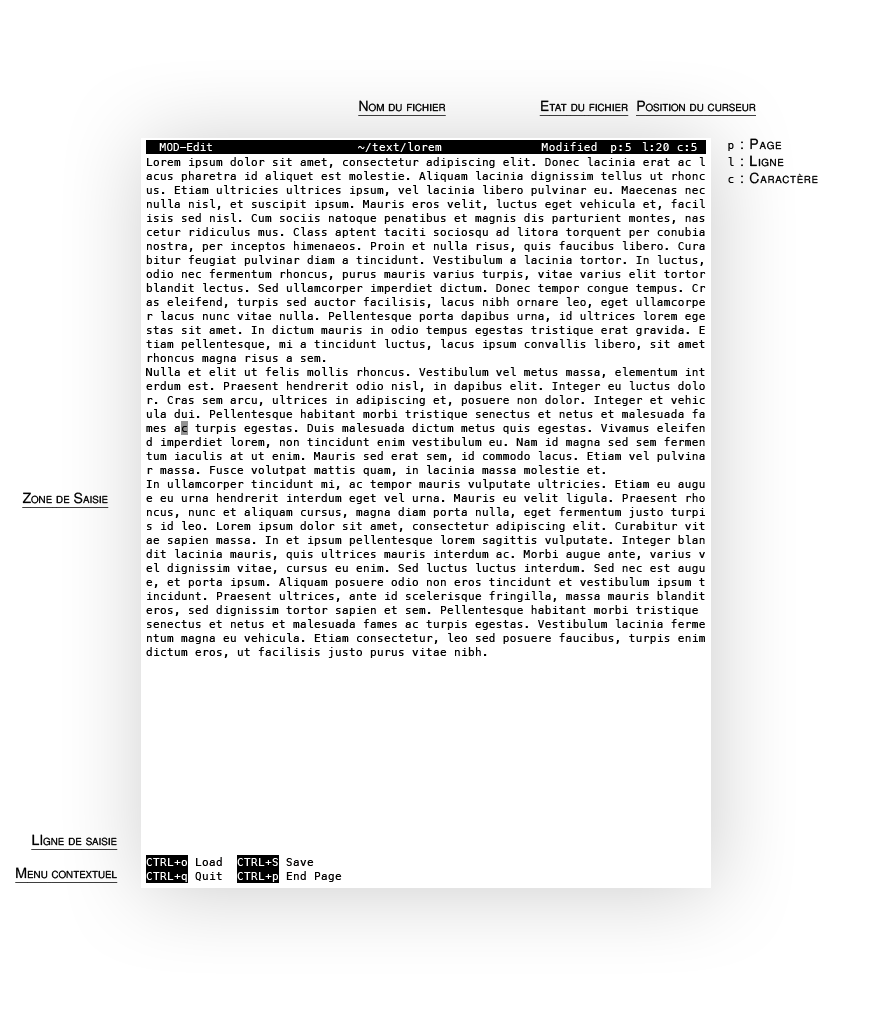
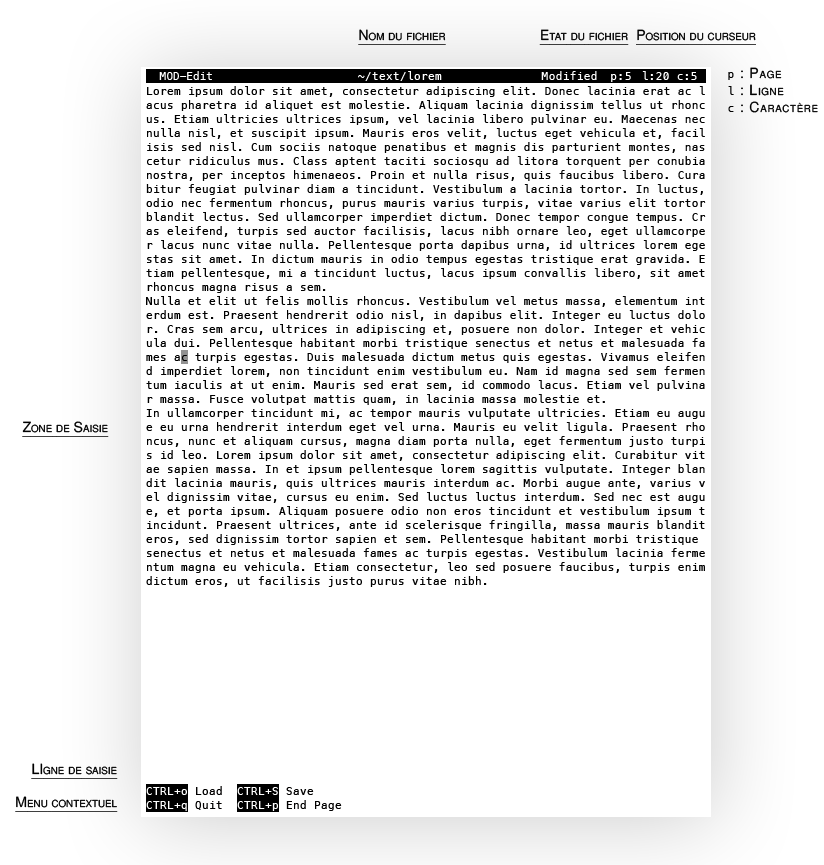
Review qualité, corrrection de l'analyse

diff --git a/TD3_Conception_Editeur_Texte_Page/introduction.tex b/TD3_Conception_Editeur_Texte_Page/introduction.tex
@@ -1,4 +1,6 @@
+\vspace*{\fill}
 \part{Introduction}
 Le document suivant présente la conception et la spécification d'un éditeur de texte page glissante. L'éditeur s'adressant à un utilisateur débutant en informatique, très peu de fonctions sont proposées à l'utilisateur afin de limiter le temps d'apprentissage nécessaire. Le texte affiché est brute, \textsl{i.e.} sans traitement et sans formatage.
 
 Nous nous concentrerons en priorité sur l'ergonomie, puis sur la portabilité, et enfin sur la maintenabilité et l'efficacité.
+\vspace*{\fill}

diff --git a/TD3_Conception_Editeur_Texte_Page/specifications.tex b/TD3_Conception_Editeur_Texte_Page/specifications.tex
@@ -1,4 +1,4 @@
-\part{Spécification}
+\part{Spécifications}
 
 \section{Caractéristiques}
 \subsection{Périphériques requis}
@@ -119,7 +119,7 @@ Deux modes de lancement sont disponibles :
 \section{Interface utilisateur}
 \begin{figure}[H]
 \begin{center}
-    \includegraphics[width=15cm]{img/MOD-Edit}
+    \includegraphics[width=12cm]{img/MOD-Edit}
 	\vspace{-1cm}
 \end{center}
 \end{figure}
